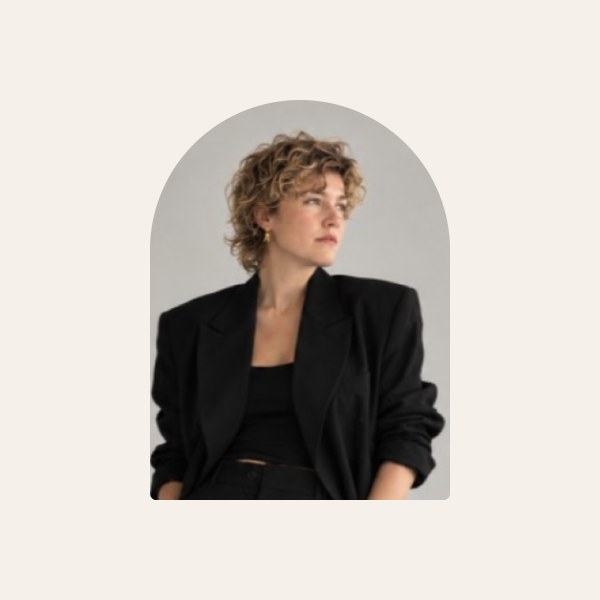
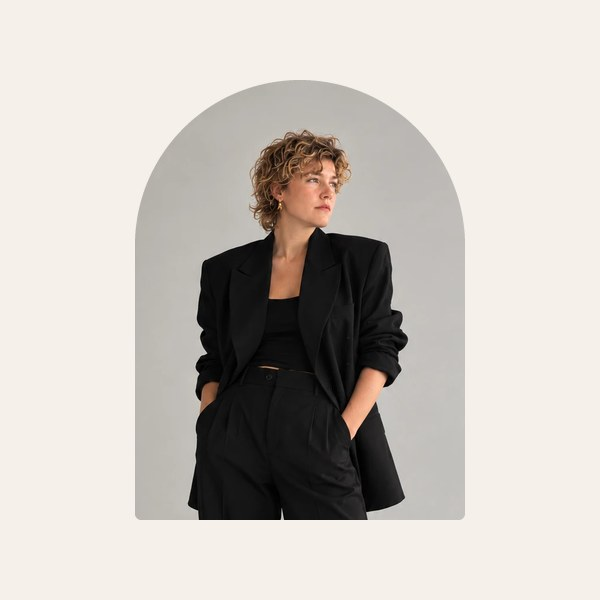
Use the original LinkedIn photo for the arch portrait
Cut the 3:4 arch from the full-resolution original (560x747) instead of
the screenshot stand-in, framed head to hips like the LinkedIn crop.
The og:image is rebuilt from the same crop.

Claude-Session: https://claude.ai/code/session_01FrU54K7jWPq5hUrSDvSd5h

Changed region(s): [[0.21, 0.12, 0.78, 0.87], [0.39, 0.75, 0.45, 0.78], [0.57, 0.51, 0.6, 0.54]]

diff --git a/index.html b/index.html
@@ -81,7 +81,7 @@
   <p>I write about AI, without AI, on <a href="https://mareikejens.substack.com/">Substack</a>.</p>
   <p>Say hi at <a href="mailto:mareike.jens@gmail.com">mareike.jens@gmail.com</a> or on <a href="https://www.linkedin.com/in/mareike-jens/">LinkedIn</a>.</p>
   </div>
-  <figure class="portrait"><img src="/assets/mareike-portrait.jpg" alt="Mareike Jens" width="330" height="440"></figure>
+  <figure class="portrait"><img src="/assets/mareike-portrait.jpg" alt="Mareike Jens" width="560" height="747"></figure>
 </main>
 </body>
 </html>

diff --git a/README.md b/README.md
@@ -19,7 +19,7 @@ Static HTML + a single React component (transpiled in-browser via Babel standalo
 ```
 index.html         # the entire page (head metadata + static shell + React app)
 assets/            # images
-  mareike-portrait.jpg  # arch portrait on the holding page (3:4). STAND-IN cut from a LinkedIn screenshot (330x440); replace with the original
+  mareike-portrait.jpg  # arch portrait on the holding page (3:4, 560x747), cropped from the original LinkedIn photo
   mareike-headshot.jpg  # 600x600 link-preview image (og:image): the arch portrait on the page background
   mareike-cover.jpg
   mareike-pink.jpg
